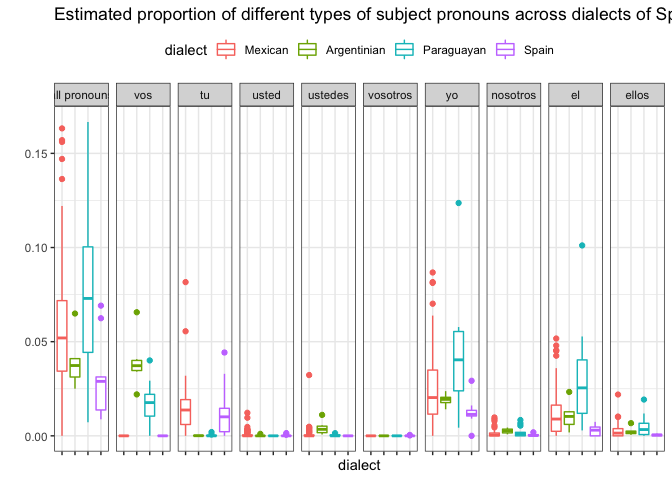
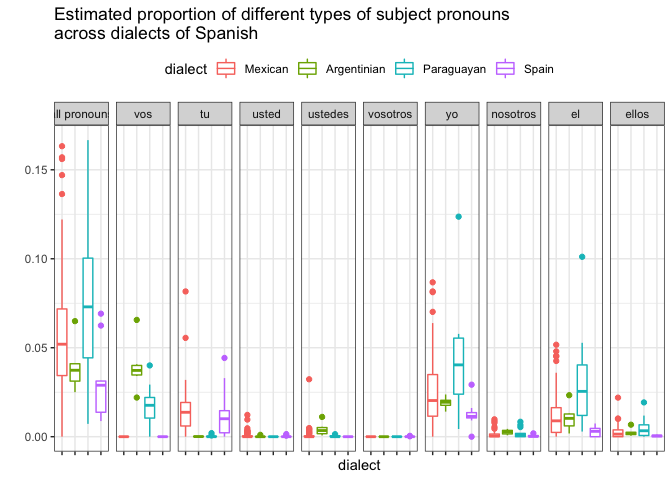
final update with spelling fixes in graphs

diff --git a/Coding_challenge_1.md b/Coding_challenge_1.md
@@ -1,23 +1,32 @@
 Project proposal for Data Incubator
 ================
 
-available at: <https://github.com/HannahForsythe/span_dialects> author:
-Hannah Forsythe date: 13-April-2020 description: Exploratory analysis of
-dialectal differences across Spanish. Figure 1 explores the utility of
-two potential features for characterizing dialectal differences: (i)
-overall rates subject pronoun use, and (ii) rates of different types of
-subject pronouns Figure 2 explores the utility of a using the ratio of
-similar meaning verbs ‘estar’ and ‘ser’ (‘be’) to distinguish between
-dialects. Figure 3 extends this to other pairs of similar meaning words.
+available at: <https://github.com/HannahForsythe/span_dialects>
+
+author: Hannah Forsythe
+
+date: 13-April-2020
+
+description: Exploratory analysis of dialectal differences across
+Spanish. Figure 1 explores the utility of two potential features for
+characterizing dialectal differences: (i) overall rates subject pronoun
+use, and (ii) rates of different types of subject pronouns
+
+Figures 2-4 explore the utility of a using the frequency of verbs
+‘estar’ and ‘ser’ (‘be’) to distinguish between dialects, or the
+RATIO between them.
+
+Figure 5 looks at the ratios between other pairs of similar-meaning
+words.
 
 future goals: use these insights to produce a classifier capable of
 identifying a dialect, given an utterance of reasonable length.
 
 potential application: allow an ASR (Alexa, Siri, etc.) to detect when a
 different dialect is being spoken than expected, so it can prompt the
-user to change settings. (For example, when set to Mexican Spanish, the
-ASR should be able to detect the use of Spanish with non-Mexican
-features).
+user to change settings. For example, when set to Mexican Spanish, the
+ASR should be able to detect when someone is speaking a variety of
+Spanish with non-Mexican features.
 
 ``` r
 ####################
@@ -89,7 +98,7 @@ library(reshape)
 library(readr)
 ```
 
-Data: The data for this exploratory analysis comes from transcripts of
+data: The data for this exploratory analysis comes from transcripts of
 free-form parent-child interactions in 4 different dialects, compiled
 from 6 corpora available at
 <https://childes.talkbank.org/access/Spanish/> and 2 private corpora
@@ -103,7 +112,7 @@ etc.) can be easily grouped together. I have used the accompanying free
 software called CLAN (<http://dali.talkbank.org/clan/>) to put the data
 into csv format, with one line per utterance.
 
-The code below cleans the data and extract the following variables: a)
+The code below cleans the data and extracts the following variables: a)
 file: name of the transcript b) line: each utterance appears on a
 separate line c) participant: what kind of person is speaking (parent,
 investigator, etc.) For now, we only include adults; no children. d)
@@ -396,14 +405,15 @@ object_size(df)
     ## 36.6 MB
 
 The first feature we explore is the proportion of verbs with pronouns as
-subjects. This rate varies systematically across different dialects,
-with higher rates in contact dialects (ex. Paraguayan Spanish) and in
-the Caribbean (not represented in our sample). We will also break these
-rates down by individual pronoun, since some dialects use differnt
-pronouns (ex. Paraguayans & Argentinians use ‘vos’ while Mexicans &
-Spaniards use ‘tú’) and some dialects use the same pronouns to different
-extents (ex. Spaniards are very informal so they probably never use
-‘usted’).
+subjects. According to sociolinguistic research, this rate varies
+systematically across different dialects, with higher rates in contact
+dialects (ex. Paraguayan Spanish) and in the Caribbean (not represented
+in our sample), so maybe we can use this to distinguish dialects from
+each other. We will also break these rates down by individual pronoun,
+since some dialects use differnt pronouns (ex. Paraguayans &
+Argentinians use ‘vos’ while Mexicans & Spaniards use ‘tú’) and some
+dialects use the same pronouns to different extents (ex. Spaniards are
+very informal so they might not use the formal pronoun ‘usted’ much).
 
 ``` r
 ################
@@ -482,7 +492,7 @@ extents (ex. Spaniards are very informal so they probably never use
     geom_boxplot() +
     theme_bw() +
     theme(legend.position="top", axis.text.x=element_blank()) +
-    ggtitle("Estimated proportion of different types of subject pronouns across dialects of Spanish") +
+    ggtitle("Estimated proportion of different types of subject pronouns \nacross dialects of Spanish") +
     ylab("")
 ```
 
@@ -496,7 +506,7 @@ The Figure below displays our results:
 
 ``` r
 #uncomment the following line to save this figure as a pdf
-#ggsave("Asset_1-prop_subject_pronouns.pdf", dpi=900, dev='pdf', height=5, width=9, units="in")
+ggsave("Asset_1-prop_subject_pronouns.pdf", dpi=900, dev='pdf', height=5, width=9, units="in")
 ```
 
 What we learn from this figure:
@@ -512,10 +522,10 @@ What we learn from this figure:
     rare).
 3)  More interestingly, the remaining pronouns allow us to get a finer
     distinction WITHIN these two groups (Argentinians/Paraugyans and
-    Mexicans/Spaniards). For the first par, Argentinians use vos more
-    often on average than Paraguayans, and vice-versa for yo and el. For
-    the second pair, Mexicans can be distinguished from Spaniards
-    because they simply use more pronouns overall.
+    Mexicans/Spaniards). First, Argentinians use ‘vos’ more often on
+    average than Paraguayans, and vice-versa for ‘yo’ and ‘él/ella’.
+    Second, Mexicans can be distinguished from Spaniards because they
+    simply use more pronouns overall.
 
 -----
 
@@ -527,10 +537,10 @@ An important feature of this tagger is that it identifies verb stems
 estoy, ‘(I) am’, estás ‘(you) are’, etc.) can be easily grouped
 together.
 
-We begin with the highly frequent verbs ser and estar (both meaning ‘to
-be’). First, let’s compare how frequent these verbs are across dialects
-by measuring the each speaker’s average proportion of ser and estar out
-of all verb stems.
+We begin with the highly frequent verbs ‘ser’ and ‘estar’ (both meaning
+‘to be’). First, let’s compare how frequent these verbs are across
+dialects by measuring the each speaker’s average proportion of ‘ser’ and
+‘estar’ out of all verb occurrences.
 
 ``` r
 #Define verb tags to search for in each line.
@@ -601,13 +611,13 @@ ratios <- dialect_verbs %>% select(dialect, speaker, ser_prop, est_prop)
 
 ![](Coding_challenge_1_files/figure-gfm/unnamed-chunk-2-1.png)<!-- -->
 
-It looks like there is less overlap between each dialect\! Let’s compare
-these two measures side-by-side. To put them on the same scale, we will
-compare (i) the OVERALL proportions of ser and estar, out of all verb
-occurences; and (ii) the RELATIVE proportion of estar, out of all
-ser+estar occurrences. The graph below suggests that yes, indeed,
-looking at the tradeoff between ser/estar gets us greater separation
-between
+It looks like there is even less overlap between dialects\! Let’s check
+this by comparing these two measures side-by-side. To put them on the
+same scale, we will compare (i) the OVERALL proportions of ‘ser’ and
+‘estar’, out of all verb occurences; and (ii) the RELATIVE proportion
+of ‘estar’, out of all ‘ser’ & ‘estar’ occurrences. The graph below
+suggests that yes, indeed, looking at the relative ‘estar/ser’ tradeoff
+gets us greater separation between
 dialects.
 
 ``` r
@@ -626,7 +636,7 @@ levels(melt_ratios$proportion_type) <- c("ser/all verbs","estar/all verbs", "est
     #ylim(0, 1.8) +
     theme_bw() +
     theme(legend.position="top", axis.text.x=element_blank()) +
-    ggtitle("Absolute versus relative proportions of 'estar' and 'ser'\n across 6 dialects of Spanish") +
+    ggtitle("Absolute versus relative proportions of 'estar' and 'ser'\n across dialects of Spanish") +
     ylab("")
 ```
 
@@ -634,14 +644,14 @@ levels(melt_ratios$proportion_type) <- c("ser/all verbs","estar/all verbs", "est
 
 ``` r
   #uncomment the following line to save this figure as a pdf
-  #ggsave("Asset_2-ratio_estar_ser.pdf", dpi=900, dev='pdf', height=6, width=6, units="in")
+  ggsave("Asset_2-ratio_estar_ser.pdf", dpi=900, dev='pdf', height=6, width=6, units="in")
 ```
 
-The final step is to try this with other similar-meaning words. However,
-since most words are much, much less frequent than these two verbs, we
-have to be careful not to divide by zero. In the following code block, I
-add a small amount to each word’s proportion before calculating the
-ratio of word pairs.
+The final step (for now) is to try this technique with other
+similar-meaning words. However, since most words are much, much less
+frequent than these two verbs, we have to be careful not to divide by
+zero. In the following code block, I add a small amount to each word’s
+proportion before calculating the ratio of any two word proportions.
 
 ``` r
 #Define verb tags to search for in each line.
@@ -708,7 +718,7 @@ ratio of word pairs.
   #calculate ratio of conducir to manejar. but first, smooth out zeros by adding a tiny amount
   ratios$maneja_prop <- (dialect_pairs$maneja_prop)+.001
   ratios$conduci_prop <- (dialect_pairs$conduci_prop)+.001
-  ratios$conduci_over_maneja <- ratios$conduci_prop / ratios$maneja_prop
+  ratios$maneja_over_conduci <- ratios$maneja_prop / ratios$conduci_prop
 
   #calculate ratio of hablar to decir but first, smooth out zeros by adding a tiny amount
   ratios$habla_prop <- (dialect_pairs$habla_prop)+.001
@@ -718,7 +728,7 @@ ratio of word pairs.
   #calculate ratio of tomar to beber but first, smooth out zeros by adding a tiny amount
   ratios$toma_prop <- (dialect_pairs$toma_prop)+.001
   ratios$bebe_prop <- (dialect_pairs$bebe_prop)+.001
-  ratios$bebe_over_toma <- ratios$bebe_prop / ratios$toma_prop
+  ratios$toma_over_bebe <- ratios$toma_prop / ratios$bebe_prop
   
   #calculate ratio of niño/a to chico/a but first, smooth out zeros by adding a tiny amount
   ratios$nino_prop <- (dialect_pairs$nino_prop)+.001
@@ -727,22 +737,22 @@ ratio of word pairs.
   
   #For each speaker and dialect, plot the ratio of each similar-meaning word pair
   #drop unnecessary columns
-  wordpairs <- ratios %>% select(dialect, speaker, coche_over_carro, conduci_over_maneja, deci_over_habla, bebe_over_toma, chico_over_nino)
+  wordpairs <- ratios %>% select(dialect, speaker, coche_over_carro, maneja_over_conduci, deci_over_habla, toma_over_bebe, chico_over_nino)
   #melt the data for plotting 
   melt_wordpairs <- melt(wordpairs, id.vars=c("dialect", "speaker"))
   #fix the column names and levels
   names(melt_wordpairs) <- revalue(names(melt_wordpairs), c("variable"="verb_pair", "value"="ratio"))
-  levels(melt_wordpairs$verb_pair) <- c("coche:carro - car","conducir:manejar - drive", "decir:hablar - say", "beber:tomar - drink", "chico:nino - kid")
+  levels(melt_wordpairs$verb_pair) <- c("coche:carro - car","manejar:conducir - drive", "decir:hablar - say", "tomar:beber - drink", "chico:nino - kid")
 ```
 
 Now we can plot each of these ratios on the same scale \[Note: I limit
-the scale, which eliminates 6
+the y-axis, which eliminates 8
 outliers\]:
 
 ``` r
   wordratios.plot <- ggplot(melt_wordpairs, aes(x=dialect, y=ratio, color = dialect)) +
     facet_grid(.~verb_pair) +
-    ylim(0,23) +
+    ylim(0,30) +
     geom_boxplot() +
     theme_bw() +
     theme(legend.position="top", axis.text.x=element_blank()) +
@@ -750,14 +760,13 @@ outliers\]:
     ylab("")
 ```
 
-The plot below shows us the following:
+The plot below shows us the following (left to right):
 
-1)  The pair chico:nino clearly distinguishes Argentinian/Paraguayan
-    from the other two. They also have a SLIGHTLY higher beber:tomar
-    ratio than the other two.
-2)  Spain is the only dialect with a conducir:manejar ratio over 1.
-3)  Paraguay has a particularly high ratio of decir: hablar
-4)  coche and carro are not frequent enough to be useful in this dataset
+1)  coche and carro are not frequent enough to be useful in this dataset
+2)  Spain is the only dialect with a conducir:manejar ratio under 1.
+3)  The ratio decir: hablar clearly separates Paraguayan from
+    Argentinian Spanish 4-5) The pairs tomar:beber and chico:nino
+    distinguish Argentinian/Paraguayan dialects from Mexcian/Spain.
 
 <!-- end list -->
 
@@ -773,11 +782,14 @@ wordratios.plot
 ```
 
 General conclusions: In sum, the exploratory analysis shows that: 1)
-Rates of individual pronoun subjects are a promising type of feature to
-use when distinguishing dialects. 2) In some cases, testing the ratio of
-similar-meaning words may provide additional insight, over and above the
-overall rates of individual words.
+Every dialect can be distinguished from every other dialect along at
+least SOME feature explored here. 2) Rates of individual pronoun
+subjects are a promising and easy-to-implement feature to use when
+distinguishing dialects. 3) In some cases, the ratio of similar-meaning
+word PAIRS may provide additional insight, over and above the overall
+rates of the INDIVIDUAL words.
 
-Future steps will involve a full-blown exploration of all words that may
-be distinctive for each dialect, plus a greater set of word PAIRS whose
-proportions may vary across dialects.
+Before implementing the proposed classifier, I will do a full-blown
+exploration of all words in this dataset to see which ones may be
+distinctive for each dialect, as well as a greater exploration of word
+PAIRS whose proportions may vary across dialects.
